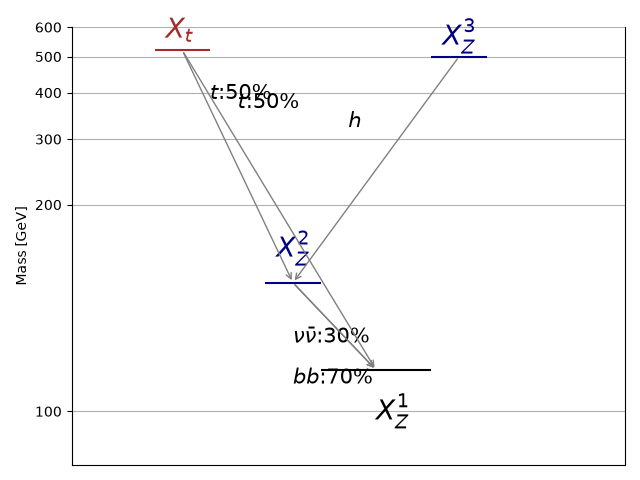
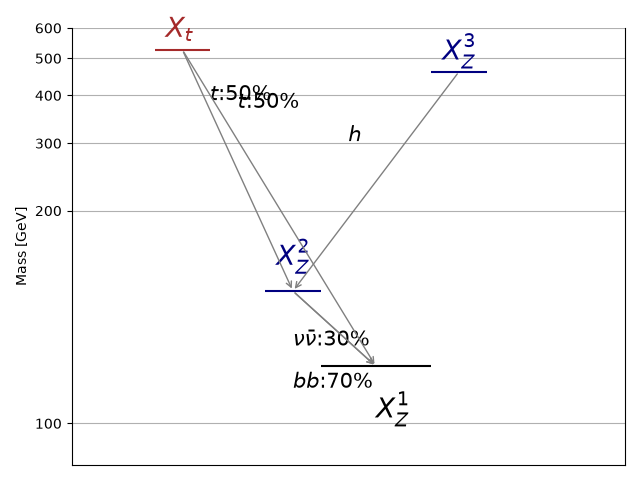
automated update by plotHiscore.py to rundir1_320:     K=18.437 TL=23.94 walkerid=110

diff --git a/protomodels/rundir1_320/rawnumbers.html b/protomodels/rundir1_320/rawnumbers.html
@@ -1,13 +1,13 @@
 <table>
 <tr><th>Analysis Name</th><th>Type</th><th>Dataset</th><th>Topos</th><th>Observed</th><th>Expected</th><th>Approx &sigma;</th><th>Particles</th>
 </tr>
-<tr><td><a href=https://atlas.web.cern.ch/Atlas/GROUPS/PHYSICS/PAPERS/EXOT-2018-06/>ATLAS-EXOT-2018-06</a></td><td>em</td> <td>EM10</td><td>TChiISR</td><td>413</td><td>359.00 +/- 10.00</td><td style="text-align:right">2.5 &sigma;</td><td style="text-align:right">X<sup>2</sup><sub>Z</sub>, X<sup>1</sup><sub>Z</sub></td></tr>
-<tr><td><a href=http://cms-results.web.cern.ch/cms-results/public-results/publications/EXO-20-004/>CMS-EXO-20-004</a></td><td>comb</td> <td>-</td><td>TChiISR</td><td> 7e+01 fb </td><td> 5e+01 fb</td><td style="text-align:right">2.3 &sigma;</td><td style="text-align:right">X<sup>2</sup><sub>Z</sub>, X<sup>1</sup><sub>Z</sub></td></tr>
-<tr><td><a href=http://cms-results.web.cern.ch/cms-results/public-results/publications/SUS-20-004/>CMS-SUS-20-004</a></td><td>comb</td> <td>-</td><td>TChiHH</td><td> 0.2 fb </td><td> 0.2 fb</td><td style="text-align:right">2.1 &sigma;</td><td style="text-align:right">X<sup>3</sup><sub>Z</sub>, X<sup>2</sup><sub>Z</sub></td></tr>
+<tr><td><a href=https://atlas.web.cern.ch/Atlas/GROUPS/PHYSICS/PAPERS/EXOT-2018-06/>ATLAS-EXOT-2018-06</a></td><td>em</td> <td>EM10</td><td>TChiISR</td><td>413</td><td>359.00 +/- 10.00</td><td style="text-align:right">2.4 &sigma;</td><td style="text-align:right">X<sup>2</sup><sub>Z</sub>, X<sup>1</sup><sub>Z</sub></td></tr>
+<tr><td><a href=http://cms-results.web.cern.ch/cms-results/public-results/publications/EXO-20-004/>CMS-EXO-20-004</a></td><td>comb</td> <td>-</td><td>TChiISR</td><td> 7e+01 fb </td><td> 5e+01 fb</td><td style="text-align:right">2.4 &sigma;</td><td style="text-align:right">X<sup>2</sup><sub>Z</sub>, X<sup>1</sup><sub>Z</sub></td></tr>
+<tr><td><a href=http://cms-results.web.cern.ch/cms-results/public-results/publications/SUS-20-004/>CMS-SUS-20-004</a></td><td>comb</td> <td>-</td><td>TChiHH</td><td> 0.3 fb </td><td> 0.2 fb</td><td style="text-align:right">2.1 &sigma;</td><td style="text-align:right">X<sup>3</sup><sub>Z</sub>, X<sup>2</sup><sub>Z</sub></td></tr>
 <tr><td><a href=https://atlas.web.cern.ch/Atlas/GROUPS/PHYSICS/PAPERS/SUSY-2018-12/>ATLAS-SUSY-2018-12</a></td><td>em</td> <td>SRBTT</td><td>T2tt</td><td>67</td><td>46.00 +/- 7.00</td><td style="text-align:right">2.0 &sigma;</td><td style="text-align:right">X<sup>2</sup><sub>Z</sub>, X<sup>1</sup><sub>Z</sub>, X<sub>t</sub></td></tr>
 <tr><td><a href=https://atlas.web.cern.ch/Atlas/GROUPS/PHYSICS/PAPERS/SUSY-2016-16/>ATLAS-SUSY-2016-16</a></td><td>em</td> <td>tN_med</td><td>T2tt</td><td>50</td><td>36.30 +/- 6.60</td><td style="text-align:right">1.4 &sigma;</td><td style="text-align:right">X<sup>2</sup><sub>Z</sub>, X<sup>1</sup><sub>Z</sub>, X<sub>t</sub></td></tr>
 <tr><td><a href=https://atlas.web.cern.ch/Atlas/GROUPS/PHYSICS/PAPERS/SUSY-2018-08/>ATLAS-SUSY-2018-08</a></td><td>em</td> <td>SRSF140</td><td>T2tt</td><td>9</td><td>5.10 +/- 0.90</td><td style="text-align:right">1.3 &sigma;</td><td style="text-align:right">X<sup>2</sup><sub>Z</sub>, X<sup>1</sup><sub>Z</sub>, X<sub>t</sub></td></tr>
-<tr><td><a href=https://cms-results.web.cern.ch/cms-results/public-results/publications/SUS-13-012/index.html>CMS-SUS-13-012</a></td><td>em</td> <td>3NJet6_800HT100 ...</td><td>T1bbbb, T2tt</td><td>124</td><td>108.00 +/- 15.00</td><td style="text-align:right">0.9 &sigma;</td><td style="text-align:right">X<sup>2</sup><sub>Z</sub>, X<sup>1</sup><sub>Z</sub>, X<sub>t</sub></td></tr>
+<tr><td><a href=https://cms-results.web.cern.ch/cms-results/public-results/publications/SUS-13-012/index.html>CMS-SUS-13-012</a></td><td>em</td> <td>3NJet6_800HT100 ...</td><td>T1bbbb, T2tt</td><td>124</td><td>108.00 +/- 15.00</td><td style="text-align:right">0.8 &sigma;</td><td style="text-align:right">X<sup>2</sup><sub>Z</sub>, X<sup>1</sup><sub>Z</sub>, X<sub>t</sub></td></tr>
 <tr><td><a href=https://atlas.web.cern.ch/Atlas/GROUPS/PHYSICS/PAPERS/SUSY-2013-16/>ATLAS-SUSY-2013-16</a></td><td>em</td> <td>SRA4</td><td>T2tt</td><td>4</td><td>2.40 +/- 0.70</td><td style="text-align:right">0.7 &sigma;</td><td style="text-align:right">X<sup>2</sup><sub>Z</sub>, X<sup>1</sup><sub>Z</sub>, X<sub>t</sub></td></tr>
 <tr><td><a href=https://atlas.web.cern.ch/Atlas/GROUPS/PHYSICS/PAPERS/SUSY-2013-15/>ATLAS-SUSY-2013-15</a></td><td>em</td> <td>tNboost</td><td>T2tt</td><td>5</td><td>3.30 +/- 0.70</td><td style="text-align:right">0.7 &sigma;</td><td style="text-align:right">X<sup>2</sup><sub>Z</sub>, X<sup>1</sup><sub>Z</sub>, X<sub>t</sub></td></tr>
 <tr><td><a href=http://cms-results.web.cern.ch/cms-results/public-results/publications/SUS-16-050/index.html>CMS-SUS-16-050-agg</a></td><td>comb</td> <td>-</td><td>T2tt</td><td> 2 fb </td><td> 2 fb</td><td style="text-align:right">-0.2 &sigma;</td><td style="text-align:right">X<sup>2</sup><sub>Z</sub>, X<sup>1</sup><sub>Z</sub>, X<sub>t</sub></td></tr>
@@ -21,14 +21,14 @@
 <tr><td><a href=https://atlas.web.cern.ch/Atlas/GROUPS/PHYSICS/CONFNOTES/ATLAS-CONF-2013-047/>ATLAS-CONF-2013-047</a></td><td>em</td> <td>E Medium</td><td>T2tt</td><td>41</td><td>30.00 +/- 8.00</td><td style="text-align:right">1.1 &sigma;</td><td style="text-align:right">X<sup>2</sup><sub>Z</sub>, X<sup>1</sup><sub>Z</sub>, X<sub>t</sub></td></tr>
 <tr><td><a href=https://atlas.web.cern.ch/Atlas/GROUPS/PHYSICS/CONFNOTES/ATLAS-CONF-2013-062/>ATLAS-CONF-2013-062</a></td><td>em</td> <td>incHL3j_m</td><td>T2tt</td><td>5</td><td>2.70 +/- 0.90</td><td style="text-align:right">1.0 &sigma;</td><td style="text-align:right">X<sup>2</sup><sub>Z</sub>, X<sup>1</sup><sub>Z</sub>, X<sub>t</sub></td></tr>
 <tr><td><a href=https://atlas.web.cern.ch/Atlas/GROUPS/PHYSICS/PAPERS/SUSY-2013-04/>ATLAS-SUSY-2013-04</a></td><td>em</td> <td>GtGrid_SR_10ij5 ...</td><td>T2tt</td><td>3</td><td>1.37 +/- 0.35</td><td style="text-align:right">1.0 &sigma;</td><td style="text-align:right">X<sup>2</sup><sub>Z</sub>, X<sup>1</sup><sub>Z</sub>, X<sub>t</sub></td></tr>
-<tr><td><a href=https://atlas.web.cern.ch/Atlas/GROUPS/PHYSICS/CONFNOTES/ATLAS-CONF-2013-061/>ATLAS-CONF-2013-061</a></td><td>em</td> <td>SR-0l-4j-B</td><td>T2tt</td><td>3</td><td>1.30 +/- 1.00</td><td style="text-align:right">0.9 &sigma;</td><td style="text-align:right">X<sup>1</sup><sub>Z</sub>, X<sub>t</sub></td></tr>
+<tr><td><a href=https://atlas.web.cern.ch/Atlas/GROUPS/PHYSICS/CONFNOTES/ATLAS-CONF-2013-061/>ATLAS-CONF-2013-061</a></td><td>em</td> <td>SR-0l-4j-B</td><td>T2tt</td><td>3</td><td>1.30 +/- 1.00</td><td style="text-align:right">0.9 &sigma;</td><td style="text-align:right">X<sup>2</sup><sub>Z</sub>, X<sup>1</sup><sub>Z</sub>, X<sub>t</sub></td></tr>
 <tr><td><a href=https://twiki.cern.ch/twiki/bin/view/CMSPublic/PhysicsResultsSUS13015>CMS-PAS-SUS-13-015</a></td><td>em</td> <td>pTmiss350_Nb2</td><td>T2tt</td><td>15</td><td>8.60 +/- 7.10</td><td style="text-align:right">0.8 &sigma;</td><td style="text-align:right">X<sup>2</sup><sub>Z</sub>, X<sup>1</sup><sub>Z</sub>, X<sub>t</sub></td></tr>
 <tr><td><a href=https://atlas.web.cern.ch/Atlas/GROUPS/PHYSICS/CONFNOTES/ATLAS-CONF-2013-062/>ATLAS-CONF-2013-062</a></td><td>em</td> <td>SL1b_high</td><td>T2tt</td><td>6</td><td>4.00 +/- 1.10</td><td style="text-align:right">0.7 &sigma;</td><td style="text-align:right">X<sup>2</sup><sub>Z</sub>, X<sup>1</sup><sub>Z</sub>, X<sub>t</sub></td></tr>
 <tr><td><a href=https://atlas.web.cern.ch/Atlas/GROUPS/PHYSICS/CONFNOTES/ATLAS-CONF-2013-047/>ATLAS-CONF-2013-047</a></td><td>em</td> <td>E Tight</td><td>T2tt</td><td>5</td><td>2.90 +/- 1.80</td><td style="text-align:right">0.7 &sigma;</td><td style="text-align:right">X<sup>2</sup><sub>Z</sub>, X<sup>1</sup><sub>Z</sub>, X<sub>t</sub></td></tr>
 <tr><td><a href=https://atlas.web.cern.ch/Atlas/GROUPS/PHYSICS/PAPERS/SUSY-2013-04/>ATLAS-SUSY-2013-04</a></td><td>em</td> <td>GtGrid_SR_8ij80 ...</td><td>T2tt</td><td>2</td><td>0.90 +/- 0.60</td><td style="text-align:right">0.7 &sigma;</td><td style="text-align:right">X<sup>2</sup><sub>Z</sub>, X<sup>1</sup><sub>Z</sub>, X<sub>t</sub></td></tr>
 <tr><td><a href=https://atlas.web.cern.ch/Atlas/GROUPS/PHYSICS/PAPERS/SUSY-2013-04/>ATLAS-SUSY-2013-04</a></td><td>em</td> <td>GtGrid_SR_9ej50 ...</td><td>T2tt</td><td>5</td><td>3.30 +/- 0.70</td><td style="text-align:right">0.7 &sigma;</td><td style="text-align:right">X<sup>2</sup><sub>Z</sub>, X<sup>1</sup><sub>Z</sub>, X<sub>t</sub></td></tr>
-<tr><td><a href=https://atlas.web.cern.ch/Atlas/GROUPS/PHYSICS/PAPERS/SUSY-2013-04/>ATLAS-SUSY-2013-04</a></td><td>em</td> <td>GtGrid_SR_8ej50 ...</td><td>T2tt</td><td>40</td><td>35.00 +/- 4.00</td><td style="text-align:right">0.7 &sigma;</td><td style="text-align:right">X<sup>2</sup><sub>Z</sub>, X<sup>1</sup><sub>Z</sub>, X<sub>t</sub></td></tr>
 <tr><td><a href=https://atlas.web.cern.ch/Atlas/GROUPS/PHYSICS/CONFNOTES/ATLAS-CONF-2013-054/>ATLAS-CONF-2013-054</a></td><td>em</td> <td>8j50 flavor 0 b ...</td><td>T2tt</td><td>40</td><td>35.00 +/- 4.00</td><td style="text-align:right">0.6 &sigma;</td><td style="text-align:right">X<sup>2</sup><sub>Z</sub>, X<sup>1</sup><sub>Z</sub>, X<sub>t</sub></td></tr>
+<tr><td><a href=https://atlas.web.cern.ch/Atlas/GROUPS/PHYSICS/PAPERS/SUSY-2013-04/>ATLAS-SUSY-2013-04</a></td><td>em</td> <td>GtGrid_SR_8ej50 ...</td><td>T2tt</td><td>40</td><td>35.00 +/- 4.00</td><td style="text-align:right">0.7 &sigma;</td><td style="text-align:right">X<sup>2</sup><sub>Z</sub>, X<sup>1</sup><sub>Z</sub>, X<sub>t</sub></td></tr>
 <tr><td><a href=http://cms-results.web.cern.ch/cms-results/public-results/publications/SUS-16-033/index.html>CMS-SUS-16-033</a></td><td>em</td> <td>SR6_Njet2_Nb2_H ...</td><td>T2tt</td><td>216</td><td>196.00 +/- 28.00</td><td style="text-align:right">0.6 &sigma;</td><td style="text-align:right">X<sup>2</sup><sub>Z</sub>, X<sup>1</sup><sub>Z</sub>, X<sub>t</sub></td></tr>
 <tr><td><a href=https://atlas.web.cern.ch/Atlas/GROUPS/PHYSICS/CONFNOTES/ATLAS-CONF-2013-047/>ATLAS-CONF-2013-047</a></td><td>em</td> <td>A Medium</td><td>T2tt</td><td>135</td><td>122.00 +/- 18.00</td><td style="text-align:right">0.6 &sigma;</td><td style="text-align:right">X<sup>2</sup><sub>Z</sub>, X<sup>1</sup><sub>Z</sub>, X<sub>t</sub></td></tr>
 <tr><td><a href=http://cms-results.web.cern.ch/cms-results/public-results/publications/SUS-16-033/index.html>CMS-SUS-16-033</a></td><td>em</td> <td>SR1_Njet2_Nb0_H ...</td><td>T2tt</td><td>7838</td><td>7584.00 +/- 433.00</td><td style="text-align:right">0.6 &sigma;</td><td style="text-align:right">X<sup>2</sup><sub>Z</sub>, X<sup>1</sup><sub>Z</sub>, X<sub>t</sub></td></tr>
@@ -36,29 +36,29 @@
 <tr><td><a href=https://atlas.web.cern.ch/Atlas/GROUPS/PHYSICS/CONFNOTES/ATLAS-CONF-2013-062/>ATLAS-CONF-2013-062</a></td><td>em</td> <td>SL1b_low</td><td>T2tt</td><td>8</td><td>6.10 +/- 1.40</td><td style="text-align:right">0.6 &sigma;</td><td style="text-align:right">X<sup>2</sup><sub>Z</sub>, X<sup>1</sup><sub>Z</sub>, X<sub>t</sub></td></tr>
 <tr><td><a href=https://atlas.web.cern.ch/Atlas/GROUPS/PHYSICS/PAPERS/SUSY-2013-04/>ATLAS-SUSY-2013-04</a></td><td>em</td> <td>GtGrid_SR_9ej50 ...</td><td>T2tt</td><td>8</td><td>6.10 +/- 1.70</td><td style="text-align:right">0.5 &sigma;</td><td style="text-align:right">X<sup>2</sup><sub>Z</sub>, X<sup>1</sup><sub>Z</sub>, X<sub>t</sub></td></tr>
 <tr><td><a href=https://atlas.web.cern.ch/Atlas/GROUPS/PHYSICS/CONFNOTES/ATLAS-CONF-2013-053/>ATLAS-CONF-2013-053</a></td><td>em</td> <td>SRA mCT150</td><td>T2tt</td><td>102</td><td>94.00 +/- 13.00</td><td style="text-align:right">0.5 &sigma;</td><td style="text-align:right">X<sup>2</sup><sub>Z</sub>, X<sup>1</sup><sub>Z</sub>, X<sub>t</sub></td></tr>
-<tr><td><a href=http://cms-results.web.cern.ch/cms-results/public-results/publications/SUS-16-033/index.html>CMS-SUS-16-033</a></td><td>em</td> <td>SR7_Njet3_Nb1_H ...</td><td>T2tt</td><td>123</td><td>113.00 +/- 18.00</td><td style="text-align:right">0.5 &sigma;</td><td style="text-align:right">X<sup>2</sup><sub>Z</sub>, X<sup>1</sup><sub>Z</sub>, X<sub>t</sub></td></tr>
 <tr><td><a href=http://cms-results.web.cern.ch/cms-results/public-results/publications/SUS-16-033/index.html>CMS-SUS-16-033</a></td><td>em</td> <td>SR12_Njet5_Nb1_ ...</td><td>T2tt</td><td>48</td><td>42.20 +/- 9.70</td><td style="text-align:right">0.5 &sigma;</td><td style="text-align:right">X<sup>2</sup><sub>Z</sub>, X<sup>1</sup><sub>Z</sub>, X<sub>t</sub></td></tr>
+<tr><td><a href=http://cms-results.web.cern.ch/cms-results/public-results/publications/SUS-16-033/index.html>CMS-SUS-16-033</a></td><td>em</td> <td>SR7_Njet3_Nb1_H ...</td><td>T2tt</td><td>123</td><td>113.00 +/- 18.00</td><td style="text-align:right">0.5 &sigma;</td><td style="text-align:right">X<sup>2</sup><sub>Z</sub>, X<sup>1</sup><sub>Z</sub>, X<sub>t</sub></td></tr>
 <tr><td><a href=https://atlas.web.cern.ch/Atlas/GROUPS/PHYSICS/CONFNOTES/ATLAS-CONF-2013-047/>ATLAS-CONF-2013-047</a></td><td>em</td> <td>D</td><td>T2tt</td><td>18</td><td>15.00 +/- 5.00</td><td style="text-align:right">0.4 &sigma;</td><td style="text-align:right">X<sup>2</sup><sub>Z</sub>, X<sup>1</sup><sub>Z</sub>, X<sub>t</sub></td></tr>
 <tr><td><a href=https://atlas.web.cern.ch/Atlas/GROUPS/PHYSICS/CONFNOTES/ATLAS-CONF-2013-047/>ATLAS-CONF-2013-047</a></td><td>em</td> <td>C Medium</td><td>T2tt</td><td>228</td><td>210.00 +/- 40.00</td><td style="text-align:right">0.4 &sigma;</td><td style="text-align:right">X<sup>2</sup><sub>Z</sub>, X<sup>1</sup><sub>Z</sub>, X<sub>t</sub></td></tr>
 <tr><td><a href=https://atlas.web.cern.ch/Atlas/GROUPS/PHYSICS/CONFNOTES/ATLAS-CONF-2013-062/>ATLAS-CONF-2013-062</a></td><td>em</td> <td>SL3j</td><td>T2tt</td><td>7</td><td>5.60 +/- 1.60</td><td style="text-align:right">0.4 &sigma;</td><td style="text-align:right">X<sup>2</sup><sub>Z</sub>, X<sup>1</sup><sub>Z</sub>, X<sub>t</sub></td></tr>
 <tr><td><a href=http://cms-results.web.cern.ch/cms-results/public-results/publications/SUS-16-033/index.html>CMS-SUS-16-033</a></td><td>em</td> <td>SR9_NJet5_Nb2_H ...</td><td>T2tt</td><td>6</td><td>4.40 +/- 3.40</td><td style="text-align:right">0.4 &sigma;</td><td style="text-align:right">X<sup>2</sup><sub>Z</sub>, X<sup>1</sup><sub>Z</sub>, X<sub>t</sub></td></tr>
-<tr><td><a href=https://twiki.cern.ch/twiki/bin/view/CMSPublic/PhysicsResultsSUS13015>CMS-PAS-SUS-13-015</a></td><td>em</td> <td>pTmiss350_Nb1</td><td>T2tt</td><td>45</td><td>40.90 +/- 9.60</td><td style="text-align:right">0.4 &sigma;</td><td style="text-align:right">X<sup>2</sup><sub>Z</sub>, X<sup>1</sup><sub>Z</sub>, X<sub>t</sub></td></tr>
-<tr><td><a href=https://atlas.web.cern.ch/Atlas/GROUPS/PHYSICS/CONFNOTES/ATLAS-CONF-2013-054/>ATLAS-CONF-2013-054</a></td><td>em</td> <td>8j50 flavor 1 b ...</td><td>T2tt</td><td>44</td><td>40.00 +/- 10.00</td><td style="text-align:right">0.3 &sigma;</td><td style="text-align:right">X<sup>2</sup><sub>Z</sub>, X<sup>1</sup><sub>Z</sub>, X<sub>t</sub></td></tr>
+<tr><td><a href=https://twiki.cern.ch/twiki/bin/view/CMSPublic/PhysicsResultsSUS13015>CMS-PAS-SUS-13-015</a></td><td>em</td> <td>pTmiss350_Nb1</td><td>T2tt</td><td>45</td><td>40.90 +/- 9.60</td><td style="text-align:right">0.3 &sigma;</td><td style="text-align:right">X<sup>2</sup><sub>Z</sub>, X<sup>1</sup><sub>Z</sub>, X<sub>t</sub></td></tr>
 <tr><td><a href=https://atlas.web.cern.ch/Atlas/GROUPS/PHYSICS/PAPERS/SUSY-2013-04/>ATLAS-SUSY-2013-04</a></td><td>em</td> <td>GtGrid_SR_8ej50 ...</td><td>T1bbbb, T2tt</td><td>44</td><td>40.00 +/- 10.00</td><td style="text-align:right">0.3 &sigma;</td><td style="text-align:right">X<sup>2</sup><sub>Z</sub>, X<sup>1</sup><sub>Z</sub>, X<sub>t</sub></td></tr>
+<tr><td><a href=https://atlas.web.cern.ch/Atlas/GROUPS/PHYSICS/CONFNOTES/ATLAS-CONF-2013-054/>ATLAS-CONF-2013-054</a></td><td>em</td> <td>8j50 flavor 1 b ...</td><td>T2tt</td><td>44</td><td>40.00 +/- 10.00</td><td style="text-align:right">0.3 &sigma;</td><td style="text-align:right">X<sup>2</sup><sub>Z</sub>, X<sup>1</sup><sub>Z</sub>, X<sub>t</sub></td></tr>
 <tr><td><a href=http://cms-results.web.cern.ch/cms-results/public-results/publications/SUS-16-033/index.html>CMS-SUS-16-033</a></td><td>em</td> <td>SR3_Njet5_Nb0_H ...</td><td>T2tt</td><td>819</td><td>806.00 +/- 57.00</td><td style="text-align:right">0.2 &sigma;</td><td style="text-align:right">X<sup>2</sup><sub>Z</sub>, X<sup>1</sup><sub>Z</sub>, X<sub>t</sub></td></tr>
 <tr><td><a href=https://atlas.web.cern.ch/Atlas/GROUPS/PHYSICS/PAPERS/SUSY-2013-04/>ATLAS-SUSY-2013-04</a></td><td>em</td> <td>GtGrid_SR_7ej80 ...</td><td>T2tt</td><td>12</td><td>11.00 +/- 2.20</td><td style="text-align:right">0.2 &sigma;</td><td style="text-align:right">X<sup>2</sup><sub>Z</sub>, X<sup>1</sup><sub>Z</sub>, X<sub>t</sub></td></tr>
 <tr><td><a href=https://atlas.web.cern.ch/Atlas/GROUPS/PHYSICS/CONFNOTES/ATLAS-CONF-2013-037/>ATLAS-CONF-2013-037</a></td><td>em</td> <td>SRtN2</td><td>T2tt</td><td>14</td><td>13.00 +/- 3.00</td><td style="text-align:right">0.2 &sigma;</td><td style="text-align:right">X<sup>2</sup><sub>Z</sub>, X<sup>1</sup><sub>Z</sub>, X<sub>t</sub></td></tr>
-<tr><td><a href=https://atlas.web.cern.ch/Atlas/GROUPS/PHYSICS/CONFNOTES/ATLAS-CONF-2013-062/>ATLAS-CONF-2013-062</a></td><td>em</td> <td>incHL5j_e</td><td>T2tt</td><td>4</td><td>3.60 +/- 1.00</td><td style="text-align:right">0.1 &sigma;</td><td style="text-align:right">X<sup>1</sup><sub>Z</sub>, X<sub>t</sub></td></tr>
 <tr><td><a href=https://atlas.web.cern.ch/Atlas/GROUPS/PHYSICS/CONFNOTES/ATLAS-CONF-2013-053/>ATLAS-CONF-2013-053</a></td><td>em</td> <td>SRB</td><td>T2tt</td><td>65</td><td>64.00 +/- 10.00</td><td style="text-align:right">0.1 &sigma;</td><td style="text-align:right">X<sup>2</sup><sub>Z</sub>, X<sup>1</sup><sub>Z</sub>, X<sub>t</sub></td></tr>
-<tr><td><a href=https://twiki.cern.ch/twiki/bin/view/CMSPublic/PhysicsResultsSUS13015>CMS-PAS-SUS-13-015</a></td><td>em</td> <td>pTmiss200_Nb1</td><td>T2tt</td><td>254</td><td>254.30 +/- 35.00</td><td style="text-align:right">-0.0 &sigma;</td><td style="text-align:right">X<sup>2</sup><sub>Z</sub>, X<sup>1</sup><sub>Z</sub>, X<sub>t</sub></td></tr>
+<tr><td><a href=https://atlas.web.cern.ch/Atlas/GROUPS/PHYSICS/CONFNOTES/ATLAS-CONF-2013-062/>ATLAS-CONF-2013-062</a></td><td>em</td> <td>incHL5j_e</td><td>T2tt</td><td>4</td><td>3.60 +/- 1.00</td><td style="text-align:right">0.1 &sigma;</td><td style="text-align:right">X<sup>2</sup><sub>Z</sub>, X<sup>1</sup><sub>Z</sub>, X<sub>t</sub></td></tr>
 <tr><td><a href=https://atlas.web.cern.ch/Atlas/GROUPS/PHYSICS/CONFNOTES/ATLAS-CONF-2013-037/>ATLAS-CONF-2013-037</a></td><td>em</td> <td>SRbC2</td><td>T2tt</td><td>25</td><td>25.00 +/- 18.00</td><td style="text-align:right">-0.0 &sigma;</td><td style="text-align:right">X<sup>2</sup><sub>Z</sub>, X<sup>1</sup><sub>Z</sub>, X<sub>t</sub></td></tr>
 <tr><td><a href=https://atlas.web.cern.ch/Atlas/GROUPS/PHYSICS/PAPERS/SUSY-2013-04/>ATLAS-SUSY-2013-04</a></td><td>em</td> <td>GtGrid_SR_7ej80 ...</td><td>T2tt</td><td>17</td><td>17.00 +/- 6.00</td><td style="text-align:right">-0.0 &sigma;</td><td style="text-align:right">X<sup>2</sup><sub>Z</sub>, X<sup>1</sup><sub>Z</sub>, X<sub>t</sub></td></tr>
-<tr><td><a href=https://atlas.web.cern.ch/Atlas/GROUPS/PHYSICS/CONFNOTES/ATLAS-CONF-2013-062/>ATLAS-CONF-2013-062</a></td><td>em</td> <td>SL2b_low</td><td>T2tt</td><td>24</td><td>24.10 +/- 4.10</td><td style="text-align:right">-0.0 &sigma;</td><td style="text-align:right">X<sup>2</sup><sub>Z</sub>, X<sub>t</sub></td></tr>
+<tr><td><a href=https://twiki.cern.ch/twiki/bin/view/CMSPublic/PhysicsResultsSUS13015>CMS-PAS-SUS-13-015</a></td><td>em</td> <td>pTmiss200_Nb1</td><td>T2tt</td><td>254</td><td>254.30 +/- 35.00</td><td style="text-align:right">-0.0 &sigma;</td><td style="text-align:right">X<sup>2</sup><sub>Z</sub>, X<sup>1</sup><sub>Z</sub>, X<sub>t</sub></td></tr>
+<tr><td><a href=https://atlas.web.cern.ch/Atlas/GROUPS/PHYSICS/CONFNOTES/ATLAS-CONF-2013-062/>ATLAS-CONF-2013-062</a></td><td>em</td> <td>SL2b_low</td><td>T2tt</td><td>24</td><td>24.10 +/- 4.10</td><td style="text-align:right">-0.0 &sigma;</td><td style="text-align:right">X<sup>2</sup><sub>Z</sub>, X<sup>1</sup><sub>Z</sub>, X<sub>t</sub></td></tr>
 <tr><td><a href=https://atlas.web.cern.ch/Atlas/GROUPS/PHYSICS/CONFNOTES/ATLAS-CONF-2013-062/>ATLAS-CONF-2013-062</a></td><td>em</td> <td>incHL3j_e</td><td>T2tt</td><td>4</td><td>3.90 +/- 1.00</td><td style="text-align:right">-0.1 &sigma;</td><td style="text-align:right">X<sup>2</sup><sub>Z</sub>, X<sup>1</sup><sub>Z</sub>, X<sub>t</sub></td></tr>
 <tr><td><a href=https://atlas.web.cern.ch/Atlas/GROUPS/PHYSICS/CONFNOTES/ATLAS-CONF-2013-061/>ATLAS-CONF-2013-061</a></td><td>em</td> <td>SR-0l-7j-A</td><td>T2tt</td><td>22</td><td>22.50 +/- 6.90</td><td style="text-align:right">-0.1 &sigma;</td><td style="text-align:right">X<sup>2</sup><sub>Z</sub>, X<sup>1</sup><sub>Z</sub>, X<sub>t</sub></td></tr>
 <tr><td><a href=https://atlas.web.cern.ch/Atlas/GROUPS/PHYSICS/CONFNOTES/ATLAS-CONF-2013-062/>ATLAS-CONF-2013-062</a></td><td>em</td> <td>incHL6j_e</td><td>T2tt</td><td>2</td><td>2.00 +/- 0.70</td><td style="text-align:right">-0.2 &sigma;</td><td style="text-align:right">X<sup>2</sup><sub>Z</sub>, X<sup>1</sup><sub>Z</sub>, X<sub>t</sub></td></tr>
 <tr><td><a href=https://atlas.web.cern.ch/Atlas/GROUPS/PHYSICS/CONFNOTES/ATLAS-CONF-2013-093/>ATLAS-CONF-2013-093</a></td><td>em</td> <td>SRBh</td><td>T2tt</td><td>2</td><td>2.10 +/- 0.70</td><td style="text-align:right">-0.2 &sigma;</td><td style="text-align:right">X<sup>2</sup><sub>Z</sub>, X<sup>1</sup><sub>Z</sub>, X<sub>t</sub></td></tr>
-<tr><td><a href=https://twiki.cern.ch/twiki/bin/view/CMSPublic/PhysicsResultsSUS13015>CMS-PAS-SUS-13-015</a></td><td>em</td> <td>pTmiss200_Nb2</td><td>T2tt</td><td>83</td><td>88.40 +/- 19.80</td><td style="text-align:right">-0.3 &sigma;</td><td style="text-align:right">X<sup>2</sup><sub>Z</sub>, X<sup>1</sup><sub>Z</sub>, X<sub>t</sub></td></tr>
+<tr><td><a href=https://twiki.cern.ch/twiki/bin/view/CMSPublic/PhysicsResultsSUS13015>CMS-PAS-SUS-13-015</a></td><td>em</td> <td>pTmiss200_Nb2</td><td>T2tt</td><td>83</td><td>88.40 +/- 19.80</td><td style="text-align:right">-0.2 &sigma;</td><td style="text-align:right">X<sup>2</sup><sub>Z</sub>, X<sup>1</sup><sub>Z</sub>, X<sub>t</sub></td></tr>
 <tr><td><a href=https://atlas.web.cern.ch/Atlas/GROUPS/PHYSICS/CONFNOTES/ATLAS-CONF-2013-054/>ATLAS-CONF-2013-054</a></td><td>em</td> <td>8j50 MJ 340</td><td>T2tt</td><td>69</td><td>75.00 +/- 19.00</td><td style="text-align:right">-0.3 &sigma;</td><td style="text-align:right">X<sup>2</sup><sub>Z</sub>, X<sup>1</sup><sub>Z</sub>, X<sub>t</sub></td></tr>
 <tr><td><a href=http://cms-results.web.cern.ch/cms-results/public-results/publications/SUS-16-033/index.html>CMS-SUS-16-033</a></td><td>em</td> <td>SR8_Njet5_Nb3_H ...</td><td>T2tt</td><td>17</td><td>19.50 +/- 8.40</td><td style="text-align:right">-0.3 &sigma;</td><td style="text-align:right">X<sup>2</sup><sub>Z</sub>, X<sup>1</sup><sub>Z</sub>, X<sub>t</sub></td></tr>
 <tr><td><a href=https://atlas.web.cern.ch/Atlas/GROUPS/PHYSICS/PAPERS/SUSY-2013-04/>ATLAS-SUSY-2013-04</a></td><td>em</td> <td>GtGrid_SR_9ej50 ...</td><td>T1bbbb, T2tt</td><td>7</td><td>8.00 +/- 2.70</td><td style="text-align:right">-0.3 &sigma;</td><td style="text-align:right">X<sup>2</sup><sub>Z</sub>, X<sup>1</sup><sub>Z</sub>, X<sub>t</sub></td></tr>
@@ -68,9 +68,9 @@
 <tr><td><a href=https://atlas.web.cern.ch/Atlas/GROUPS/PHYSICS/PAPERS/SUSY-2015-02/>ATLAS-SUSY-2015-02</a></td><td>em</td> <td>SR3</td><td>T2tt</td><td>1</td><td>1.03 +/- 0.18</td><td style="text-align:right">-0.4 &sigma;</td><td style="text-align:right">X<sup>2</sup><sub>Z</sub>, X<sup>1</sup><sub>Z</sub>, X<sub>t</sub></td></tr>
 <tr><td><a href=https://atlas.web.cern.ch/Atlas/GROUPS/PHYSICS/CONFNOTES/ATLAS-CONF-2013-061/>ATLAS-CONF-2013-061</a></td><td>em</td> <td>SR-0l-7j-B</td><td>T2tt</td><td>3</td><td>3.60 +/- 2.50</td><td style="text-align:right">-0.4 &sigma;</td><td style="text-align:right">X<sup>2</sup><sub>Z</sub>, X<sup>1</sup><sub>Z</sub>, X<sub>t</sub></td></tr>
 <tr><td><a href=https://atlas.web.cern.ch/Atlas/GROUPS/PHYSICS/CONFNOTES/ATLAS-CONF-2013-047/>ATLAS-CONF-2013-047</a></td><td>em</td> <td>B Medium</td><td>T2tt</td><td>29</td><td>33.00 +/- 7.00</td><td style="text-align:right">-0.5 &sigma;</td><td style="text-align:right">X<sup>2</sup><sub>Z</sub>, X<sup>1</sup><sub>Z</sub>, X<sub>t</sub></td></tr>
-<tr><td><a href=https://atlas.web.cern.ch/Atlas/GROUPS/PHYSICS/CONFNOTES/ATLAS-CONF-2013-062/>ATLAS-CONF-2013-062</a></td><td>em</td> <td>incHL5j_m</td><td>T2tt</td><td>2</td><td>2.50 +/- 0.80</td><td style="text-align:right">-0.5 &sigma;</td><td style="text-align:right">X<sup>2</sup><sub>Z</sub>, X<sub>t</sub></td></tr>
-<tr><td><a href=https://atlas.web.cern.ch/Atlas/GROUPS/PHYSICS/CONFNOTES/ATLAS-CONF-2013-054/>ATLAS-CONF-2013-054</a></td><td>em</td> <td>8j50 flavor >=2 ...</td><td>T2tt</td><td>44</td><td>50.00 +/- 10.00</td><td style="text-align:right">-0.5 &sigma;</td><td style="text-align:right">X<sup>2</sup><sub>Z</sub>, X<sup>1</sup><sub>Z</sub>, X<sub>t</sub></td></tr>
+<tr><td><a href=https://atlas.web.cern.ch/Atlas/GROUPS/PHYSICS/CONFNOTES/ATLAS-CONF-2013-062/>ATLAS-CONF-2013-062</a></td><td>em</td> <td>incHL5j_m</td><td>T2tt</td><td>2</td><td>2.50 +/- 0.80</td><td style="text-align:right">-0.5 &sigma;</td><td style="text-align:right">X<sup>2</sup><sub>Z</sub>, X<sup>1</sup><sub>Z</sub>, X<sub>t</sub></td></tr>
 <tr><td><a href=https://atlas.web.cern.ch/Atlas/GROUPS/PHYSICS/PAPERS/SUSY-2013-04/>ATLAS-SUSY-2013-04</a></td><td>em</td> <td>GtGrid_SR_8ej50 ...</td><td>T1bbbb, T2tt</td><td>44</td><td>50.00 +/- 10.00</td><td style="text-align:right">-0.5 &sigma;</td><td style="text-align:right">X<sup>2</sup><sub>Z</sub>, X<sup>1</sup><sub>Z</sub>, X<sub>t</sub></td></tr>
+<tr><td><a href=https://atlas.web.cern.ch/Atlas/GROUPS/PHYSICS/CONFNOTES/ATLAS-CONF-2013-054/>ATLAS-CONF-2013-054</a></td><td>em</td> <td>8j50 flavor >=2 ...</td><td>T2tt</td><td>44</td><td>50.00 +/- 10.00</td><td style="text-align:right">-0.5 &sigma;</td><td style="text-align:right">X<sup>2</sup><sub>Z</sub>, X<sup>1</sup><sub>Z</sub>, X<sub>t</sub></td></tr>
 <tr><td><a href=https://atlas.web.cern.ch/Atlas/GROUPS/PHYSICS/CONFNOTES/ATLAS-CONF-2013-024/>ATLAS-CONF-2013-024</a></td><td>em</td> <td>SR1: MET > 200</td><td>T2tt</td><td>15</td><td>17.50 +/- 3.20</td><td style="text-align:right">-0.5 &sigma;</td><td style="text-align:right">X<sup>2</sup><sub>Z</sub>, X<sup>1</sup><sub>Z</sub>, X<sub>t</sub></td></tr>
 <tr><td><a href=https://atlas.web.cern.ch/Atlas/GROUPS/PHYSICS/PAPERS/SUSY-2015-02/>ATLAS-SUSY-2015-02</a></td><td>em</td> <td>SR2</td><td>T2tt</td><td>1</td><td>1.25 +/- 0.26</td><td style="text-align:right">-0.5 &sigma;</td><td style="text-align:right">X<sup>2</sup><sub>Z</sub>, X<sup>1</sup><sub>Z</sub>, X<sub>t</sub></td></tr>
 <tr><td><a href=https://atlas.web.cern.ch/Atlas/GROUPS/PHYSICS/CONFNOTES/ATLAS-CONF-2013-061/>ATLAS-CONF-2013-061</a></td><td>em</td> <td>SR-0l-4j-A</td><td>T2tt</td><td>2</td><td>3.00 +/- 1.30</td><td style="text-align:right">-0.6 &sigma;</td><td style="text-align:right">X<sup>2</sup><sub>Z</sub>, X<sup>1</sup><sub>Z</sub>, X<sub>t</sub></td></tr>
@@ -80,6 +80,6 @@
 <tr><td><a href=https://atlas.web.cern.ch/Atlas/GROUPS/PHYSICS/PAPERS/SUSY-2013-04/>ATLAS-SUSY-2013-04</a></td><td>em</td> <td>GtGrid_SR_7ej80 ...</td><td>T1bbbb, T2tt</td><td>13</td><td>25.00 +/- 10.00</td><td style="text-align:right">-1.2 &sigma;</td><td style="text-align:right">X<sup>2</sup><sub>Z</sub>, X<sup>1</sup><sub>Z</sub>, X<sub>t</sub></td></tr>
 <tr><td><a href=https://atlas.web.cern.ch/Atlas/GROUPS/PHYSICS/CONFNOTES/ATLAS-CONF-2013-024/>ATLAS-CONF-2013-024</a></td><td>em</td> <td>SR3: MET > 350</td><td>T2tt</td><td>1</td><td>2.70 +/- 1.20</td><td style="text-align:right">-1.2 &sigma;</td><td style="text-align:right">X<sup>2</sup><sub>Z</sub>, X<sup>1</sup><sub>Z</sub>, X<sub>t</sub></td></tr>
 <tr><td><a href=https://atlas.web.cern.ch/Atlas/GROUPS/PHYSICS/CONFNOTES/ATLAS-CONF-2013-062/>ATLAS-CONF-2013-062</a></td><td>em</td> <td>SL5j</td><td>T2tt</td><td>9</td><td>14.80 +/- 3.70</td><td style="text-align:right">-1.2 &sigma;</td><td style="text-align:right">X<sup>2</sup><sub>Z</sub>, X<sup>1</sup><sub>Z</sub>, X<sub>t</sub></td></tr>
-<tr><td><a href=http://cms-results.web.cern.ch/cms-results/public-results/publications/SUS-19-006/index.html>CMS-SUS-19-006-agg</a></td><td>comb</td> <td>-</td><td>T2tt</td><td> 2 fb </td><td> 2 fb</td><td style="text-align:right">-1.3 &sigma;</td><td style="text-align:right">X<sup>2</sup><sub>Z</sub>, X<sup>1</sup><sub>Z</sub>, X<sub>t</sub></td></tr>
 <tr><td><a href=https://atlas.web.cern.ch/Atlas/GROUPS/PHYSICS/CONFNOTES/ATLAS-CONF-2013-024/>ATLAS-CONF-2013-024</a></td><td>em</td> <td>SR2: MET > 300</td><td>T2tt</td><td>2</td><td>4.70 +/- 1.50</td><td style="text-align:right">-1.3 &sigma;</td><td style="text-align:right">X<sup>2</sup><sub>Z</sub>, X<sup>1</sup><sub>Z</sub>, X<sub>t</sub></td></tr>
+<tr><td><a href=http://cms-results.web.cern.ch/cms-results/public-results/publications/SUS-19-006/index.html>CMS-SUS-19-006-agg</a></td><td>comb</td> <td>-</td><td>T2tt</td><td> 2 fb </td><td> 2 fb</td><td style="text-align:right">-1.3 &sigma;</td><td style="text-align:right">X<sup>2</sup><sub>Z</sub>, X<sup>1</sup><sub>Z</sub>, X<sub>t</sub></td></tr>
 </table>

diff --git a/protomodels/rundir1_320/index.html b/protomodels/rundir1_320/index.html
@@ -1,27 +1,27 @@
 <html>
 <body>
 <center>
-<table><td><h1>Current best protomodel: <i>K</i>=18.09, <i>TL</i>=23.59</h1><td><img height=60px src=https://smodels.github.io//protomodels/logos/protomodel_lego.png></table>
+<table><td><h1>Current best protomodel: <i>K</i>=18.44, <i>TL</i>=23.94</h1><td><img height=60px src=https://smodels.github.io//protomodels/logos/protomodel_lego.png></table>
 </center>
-<b><a href=./hiscore.slha>ProtoModel</a> <a href=./pmodel.dict>(dict)</a> produced with <a href=https://smodels.github.io//docs/Validation320>database v3.2.0</a>, allowed_extr 0.0 in walker 106 step 5066.</b> <br>
+<b><a href=./hiscore.slha>ProtoModel</a> <a href=./pmodel.dict>(dict)</a> produced with <a href=https://smodels.github.io//docs/Validation320>database v3.2.0</a>, allowed_extr 0.0 in walker 110 step 5099.</b> <br>
 <table width=80%>
 <tr><td>
 <br><b>Critics:</b> passed both critics<br>
-<br><b>UL Critic: 1/6 analyses exclude</b><br>
-ATLAS-EXOT-2018-06:EM12:: <span style='color: darkred;'>r<sub>obs</sub>=2.454, r<sub>exp</sub>=2.047</span><br>
-CMS-SUS-20-002:ul:: <span style='color: darkgreen;'>r<sub>obs</sub>=1.325, r<sub>exp</sub>=1.196</span><br>
-CMS-SUS-19-010:ul:: <span style='color: darkgreen;'>r<sub>obs</sub>=0.899, r<sub>exp</sub>=0.845</span><br>
-<br><b>LLHD Critic:</b> ATLAS-EXOT-2018-06:EM12, CMS-EXO-20-004:matrix.cov, CMS-SUS-20-004:matrix.cov, ATLAS-SUSY-2018-12:SRBTT, ATLAS-SUSY-2016-16:tN_med, CMS-SUS-16-050-agg:matrix.cov, ATLAS-SUSY-2018-08:SRDF220:: <span style='color: darkred;'>r<sub>obs</sub>=1.24, r<sub>exp</sub>=2.87</span><br>
+<br><b>UL Critic: 1/5 analyses exclude</b><br>
+ATLAS-EXOT-2018-06:EM12:: <span style='color: darkred;'>r<sub>obs</sub>=2.271, r<sub>exp</sub>=1.894</span><br>
+CMS-SUS-20-002:ul:: <span style='color: darkgreen;'>r<sub>obs</sub>=1.323, r<sub>exp</sub>=1.212</span><br>
+CMS-SUS-19-010:ul:: <span style='color: darkgreen;'>r<sub>obs</sub>=0.904, r<sub>exp</sub>=0.864</span><br>
+<br><b>LLHD Critic:</b> CMS-EXO-20-004:matrix.cov, ATLAS-EXOT-2018-06:EM12, CMS-SUS-20-004:matrix.cov, ATLAS-SUSY-2018-12:SRBTT, ATLAS-SUSY-2016-16:tN_med, CMS-SUS-16-050-agg:matrix.cov, ATLAS-SUSY-2018-08:SRDF220:: <span style='color: darkred;'>r<sub>obs</sub>=1.17, r<sub>exp</sub>=2.8</span><br>
 </ul>
-<td><img width=600px src=./texdoc.png?1790683257>
-<br><span style='font-size: smaller; color: darkred;'>Last updated: Tue Sep 29 14:00:57 2026</span>
-<br><br><b>76 predictions available. Highest r values are:</b><br><ul>
-<li><a href=https://atlas.web.cern.ch/Atlas/GROUPS/PHYSICS/PAPERS/EXOT-2018-06/>ATLAS-EXOT-2018-06</a>:EM12:TChiISR r=2.45, r<sub>exp</sub>=2.05<br>
-<li><a href=http://cms-results.web.cern.ch/cms-results/public-results/publications/SUS-20-002/index.html>CMS-SUS-20-002</a>:ul:T2tt r=1.33, r<sub>exp</sub>=1.20<br>
-<li><a href=http://cms-results.web.cern.ch/cms-results/public-results/publications/SUS-19-010/index.html>CMS-SUS-19-010</a>:ul:T2tt r=0.90, r<sub>exp</sub>=0.84<br>
+<td><img width=600px src=./texdoc.png?1790854929>
+<br><span style='font-size: smaller; color: darkred;'>Last updated: Thu Oct  1 13:42:09 2026</span>
+<br><br><b>69 predictions available. Highest r values are:</b><br><ul>
+<li><a href=https://atlas.web.cern.ch/Atlas/GROUPS/PHYSICS/PAPERS/EXOT-2018-06/>ATLAS-EXOT-2018-06</a>:EM12:TChiISR r=2.27, r<sub>exp</sub>=1.89<br>
+<li><a href=http://cms-results.web.cern.ch/cms-results/public-results/publications/SUS-20-002/index.html>CMS-SUS-20-002</a>:ul:T2tt r=1.32, r<sub>exp</sub>=1.21<br>
+<li><a href=http://cms-results.web.cern.ch/cms-results/public-results/publications/SUS-19-010/index.html>CMS-SUS-19-010</a>:ul:T2tt r=0.90, r<sub>exp</sub>=0.86<br>
 <li><a href=http://cms-results.web.cern.ch/cms-results/public-results/publications/SUS-19-009/index.html>CMS-SUS-19-009</a>:ul:T2tt r=0.76, r<sub>exp</sub>=0.77<br>
 </table><table style="width:80%">
-<td width=40%><img height=450px src=./mass_hierarchy.png?1790683257><td width=60%><font size=-3><iframe type="text/html" height="350px" width="100%" frameborder="0" src="./rawnumbers.html?1790683257"></iframe></font>
+<td width=40%><img height=450px src=./mass_hierarchy.png?1790854929><td width=60%><font size=-3><iframe type="text/html" height="350px" width="100%" frameborder="0" src="./rawnumbers.html?1790854929"></iframe></font>
 </table>
 </body>
 </html>
